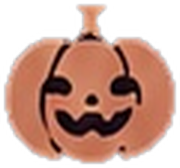
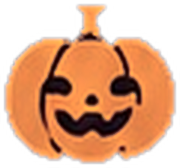
Book page: brighter rating pumpkins, label centred on them (book-4)
Claude-Session: https://claude.ai/code/session_01DZ2PcyBswD9UMmCJw8nEKc

diff --git a/book.html b/book.html
@@ -3,7 +3,7 @@
 <head>
 <meta charset="utf-8">
 <meta http-equiv="Cache-Control" content="no-cache">
-<meta name="app-version" content="book-3">
+<meta name="app-version" content="book-4">
 <meta name="viewport" content="width=device-width, initial-scale=1, viewport-fit=cover">
 <meta name="apple-mobile-web-app-capable" content="yes">
 <meta name="apple-mobile-web-app-status-bar-style" content="black-translucent">
@@ -46,7 +46,7 @@ h1{font-family:"IM Fell English SC",Georgia,serif;font-weight:400;font-size:32px
 .status button{min-height:44px;border:0;border-radius:999px;background:transparent;color:#e7cfa6;font:600 17px "EB Garamond",Georgia,serif;cursor:pointer}
 .status button[aria-pressed=true]{background:linear-gradient(#f6dc96,#c9a24e);color:#2a1408;box-shadow:0 2px 4px rgba(0,0,0,.4),inset 0 1px 0 #fff4c8}
 .rate{display:flex;align-items:center;gap:4px;margin-top:14px}
-.rate span{font-size:16px;margin-right:6px;color:var(--mute)}
+.rate span{font-size:16px;margin-right:6px;color:var(--mute);position:relative;top:4px}
 .pk{width:46px;height:46px;border:0;padding:3px;background:transparent;cursor:pointer;opacity:.35;filter:grayscale(.9) brightness(1.1);transition:opacity .15s,transform .2s,filter .15s}
 .pk.on{animation:bob .35s ease-out}
 @keyframes bob{40%{transform:translateY(-4px) scale(1.12)}}
